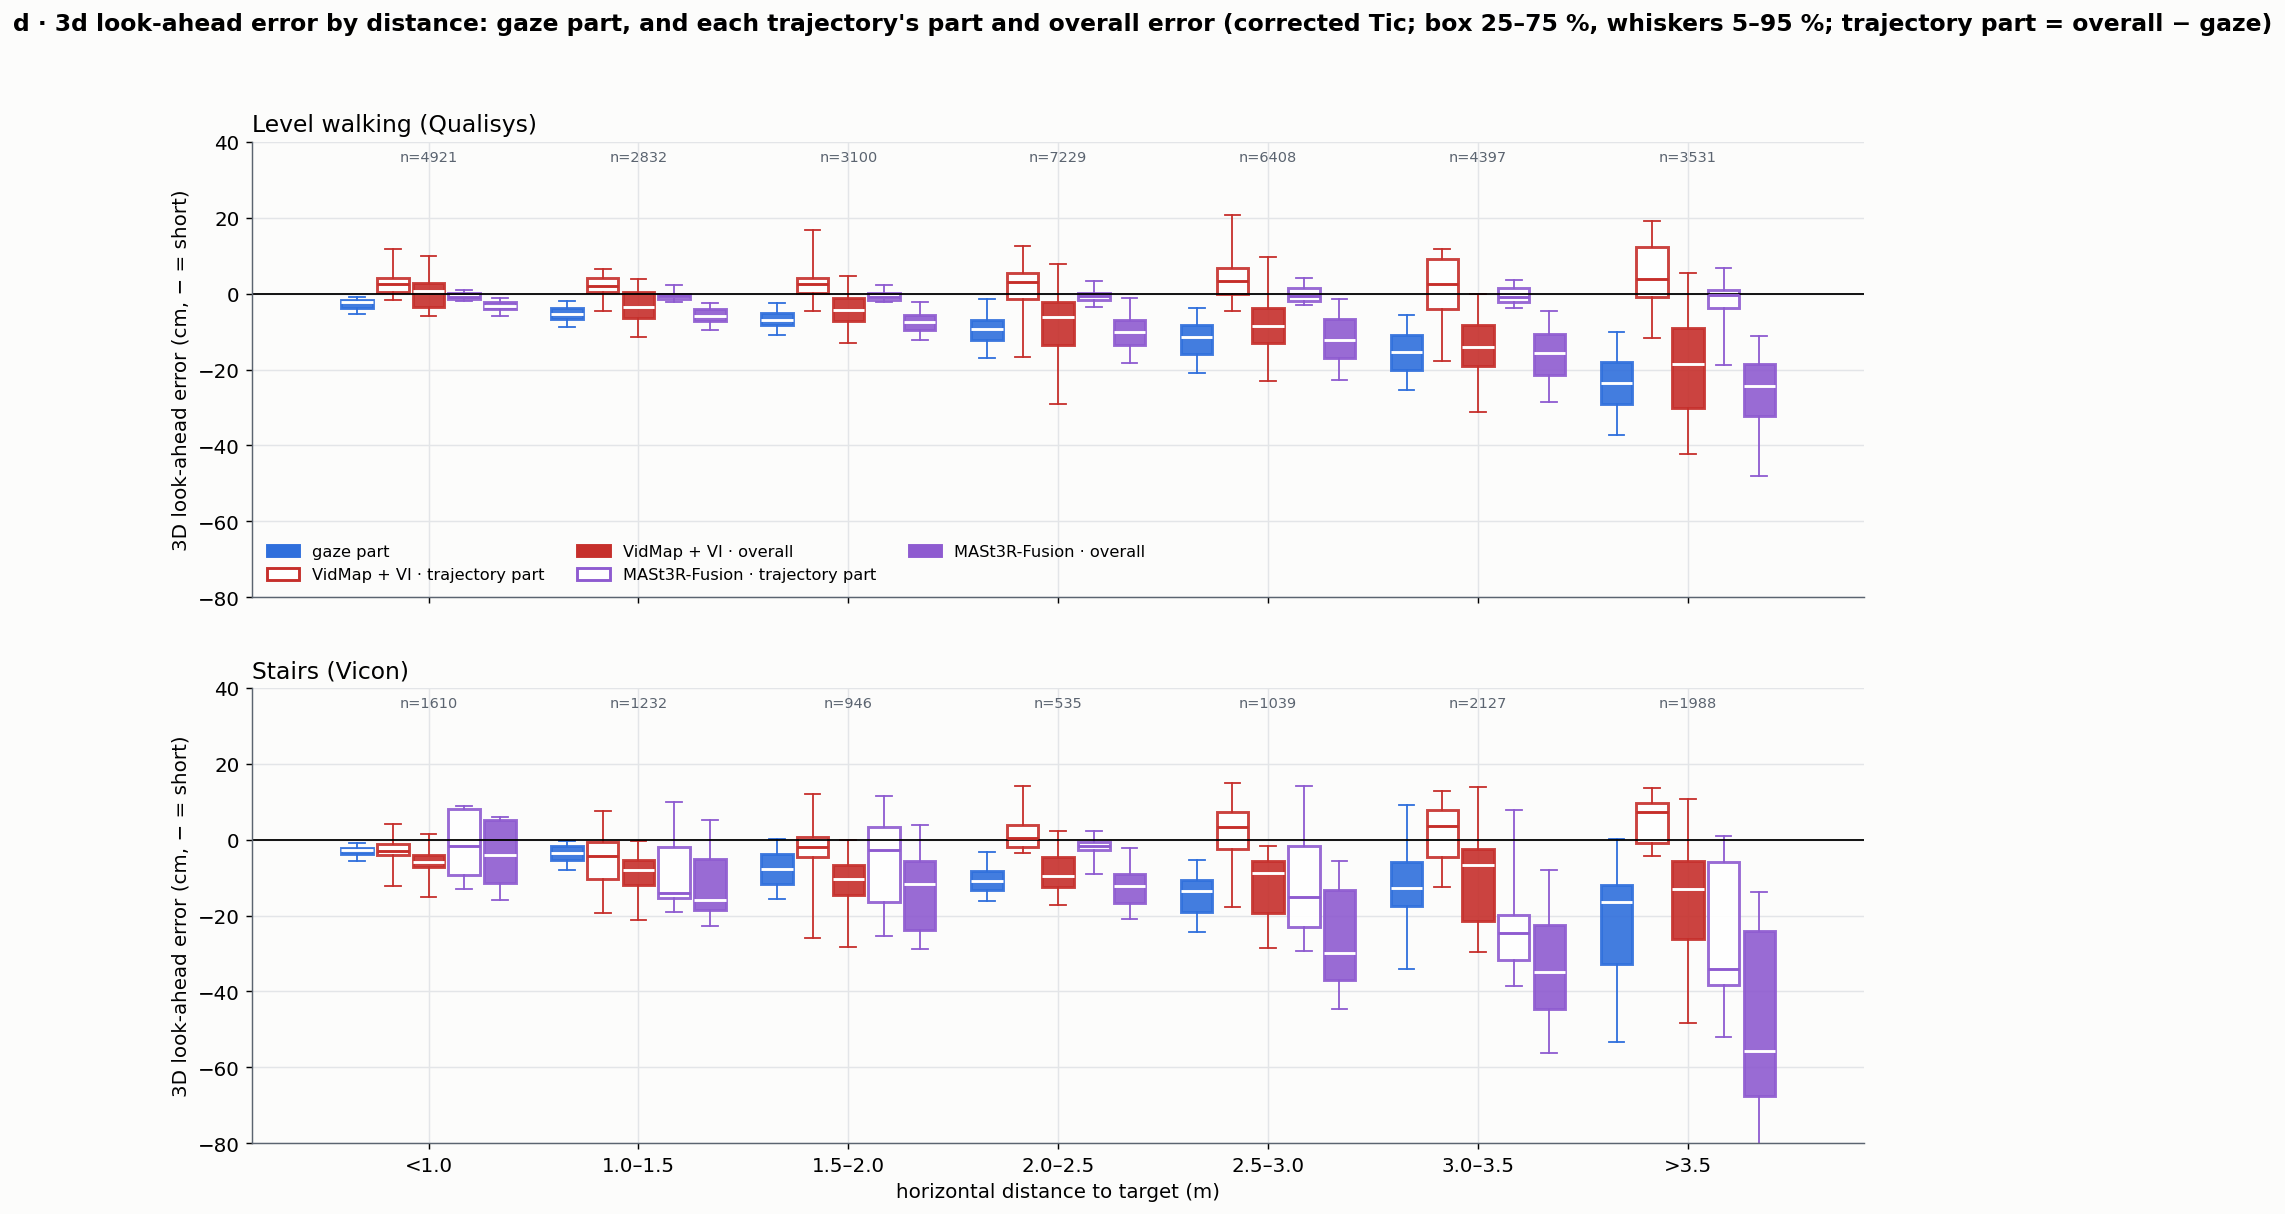
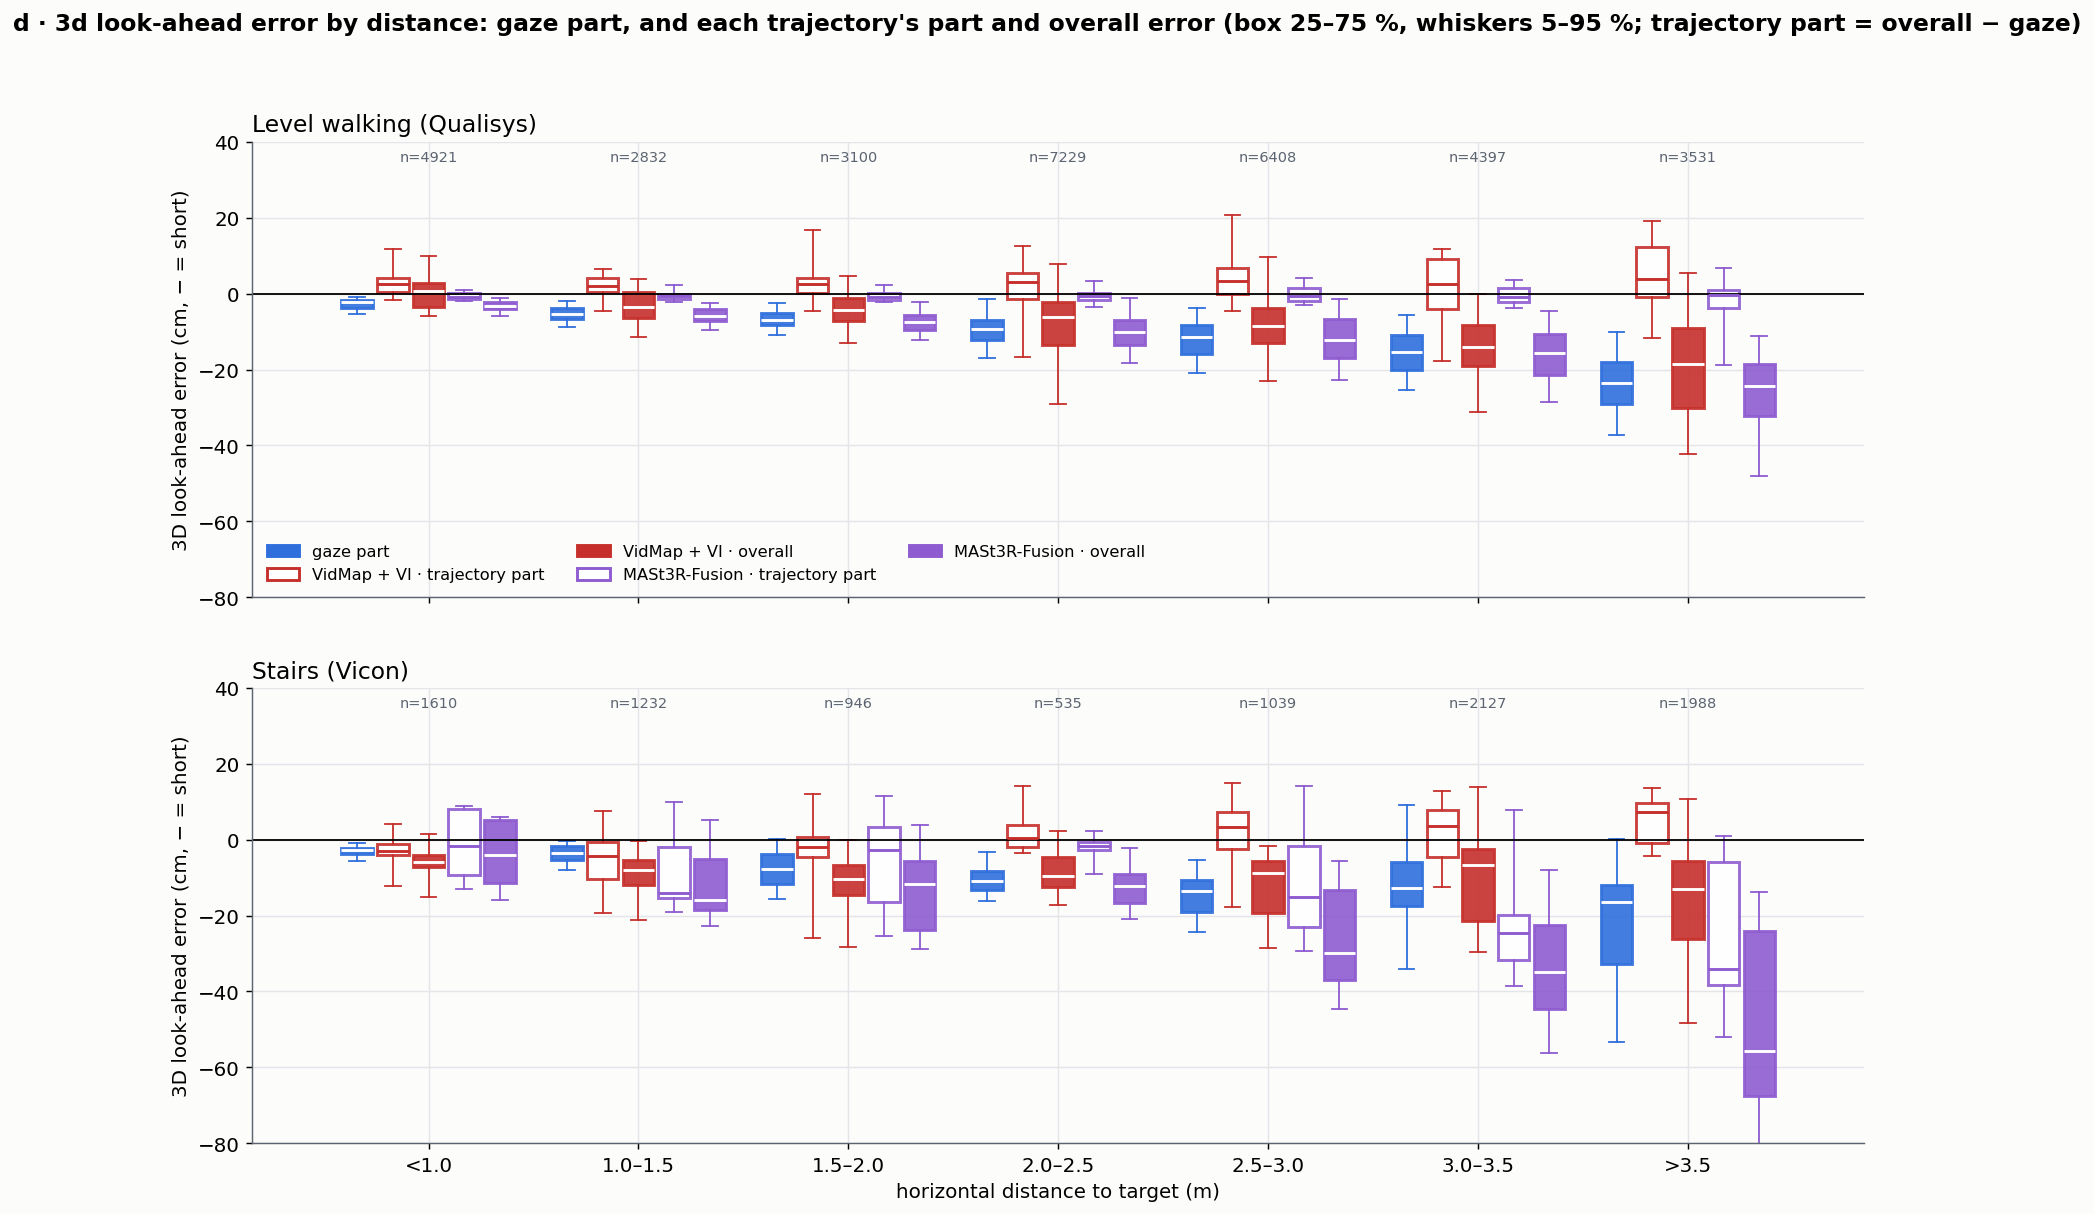
Gaze verification: add Vicon stairs trials, SAM 2 / CoTracker target tracking, corrected camera-IMU rotation, VidMap+VI vs MASt3R-Fusion results

diff --git a/index.html b/index.html
@@ -181,8 +181,7 @@ svg .gl{fill:var(--muted);font-size:12.5px;text-anchor:middle;font-weight:600}
 <li><b>Gaze part:</b> the error with a perfect trajectory. The camera is put at the glasses' mocap position and turned so that the tracked target pixel points exactly at the target (roll from the Neon IMU's gravity); the gaze ray then carries only the offset between the gaze and the target seen in the video, converted to centimetres on the floor.</li>
 <li><b>Trajectory part:</b> overall error − gaze part, per sample.</li>
 </ul>
-<p><b>Trajectories.</b> VidMap + VI [3, 4] (VidMap on the scene video, then the VI factor graph with the Neon IMU: metric scale estimated from the IMU, gravity-aligned) and MASt3R-Fusion [12] (visual–inertial), from the end of the head nods to the last <code>fixationEnd</code>, placed in the motion capture frame with a yaw + translation fit on the camera positions. Both use the Neon's camera–IMU rotation; we use the one measured from the video (below).</p>
-<p><b>Camera–IMU rotation.</b> Projecting the target into the video with the mocap pose and Pupil Labs' published camera–IMU rotation put it consistently ~2.5° above the tracked target. The rotation that best maps the predicted target directions onto the tracked ones (fitted per recording) was almost pure pitch and the same on all four level trials (−2.3 to −2.6°); since the markers-to-IMU rotation is re-estimated in every recording, the offset lies between the IMU and the scene camera, inside the Neon module (−99.5° instead of the nominal −102° about the IMU x axis). With the nominal rotation the VI trajectories point the camera ~2–3° too far down, and the look-ahead error of VidMap + VI is two to three times larger. All results below use the corrected rotation.</p>
+<p><b>Trajectories.</b> VidMap + VI [3, 4] (VidMap on the scene video, then the VI factor graph with the Neon IMU: metric scale estimated from the IMU, gravity-aligned) and MASt3R-Fusion [12] (visual–inertial), from the end of the head nods to the last <code>fixationEnd</code>, placed in the motion capture frame with a yaw + translation fit on the camera positions.</p>
 <p><b>Statistics</b>, per gaze sample: medians, by horizontal (or 3D) reference distance; agreement as Bland–Altman bias and 95 % limits [7]. Only samples where both trajectories have a pose are used, so the two are compared on the same samples.</p>
 
 <h2 id="results">Results</h2>
@@ -216,9 +215,8 @@ svg .gl{fill:var(--muted);font-size:12.5px;text-anchor:middle;font-weight:600}
 <div class="summary">
 <ul>
 <li>The gaze-based look-ahead distance is <b>shorter</b> than the reference, mainly because the gaze itself points ~1.5–2° below the target (seen directly in the video): the gaze part is −9 to −12 cm horizontally at 1.5–3 m and grows with distance, the same in both laboratories.</li>
-<li>With the corrected camera–IMU rotation, <b>VidMap + VI adds almost no error</b>: its trajectory part is +2.7 cm (level walking) and +0.6 cm (stairs), median horizontal; overall error −9.1 cm (level) and −11.6 cm (stairs), −7.3 / −12.8 cm at 1.5–2 m. Bland–Altman bias (3D): −0.08 m (level) and −0.11 m (stairs).</li>
+<li><b>VidMap + VI adds almost no error</b>: its trajectory part is +2.7 cm (level walking) and +0.6 cm (stairs), median horizontal; overall error −9.1 cm (level) and −11.6 cm (stairs), −7.3 / −12.8 cm at 1.5–2 m. Bland–Altman bias (3D): −0.08 m (level) and −0.11 m (stairs).</li>
 <li><b>MASt3R-Fusion</b> is as good on level walking (trajectory part −1.0 cm, overall −12.7 cm) but worse on the stairs (trajectory part −11.9 cm, overall −21.4 cm; bias −0.25 m), mostly on Vicon 1–3 (scale 1.21 on Vicon 3).</li>
-<li>The nominal camera–IMU rotation of the Neon tilts the camera of the VI trajectories ~2–3° down; it does not show in position metrics (ATE) or in a rotation reference built with the same rotation, but it doubles to triples the look-ahead error. It is a property of the device, not of how the glasses are worn.</li>
 </ul>
 </div>
 
